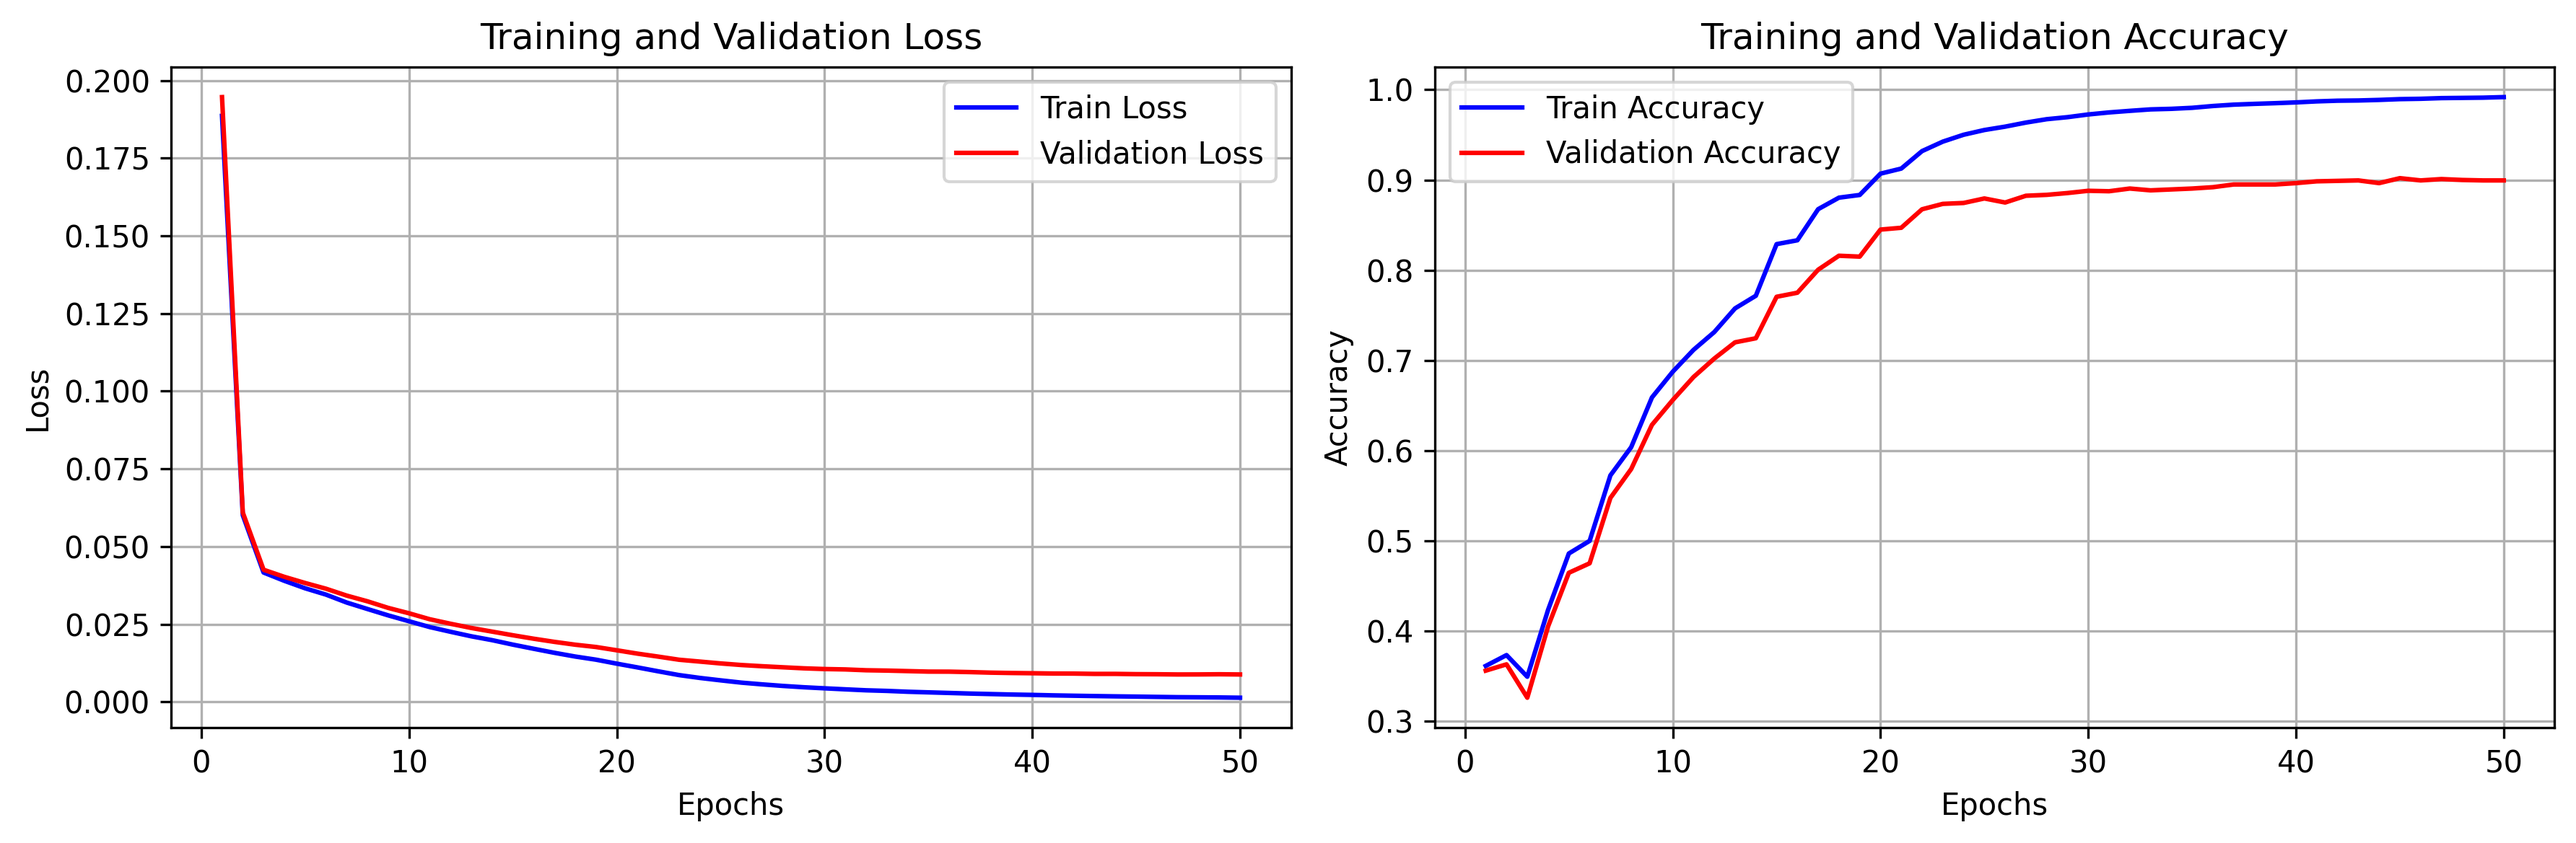
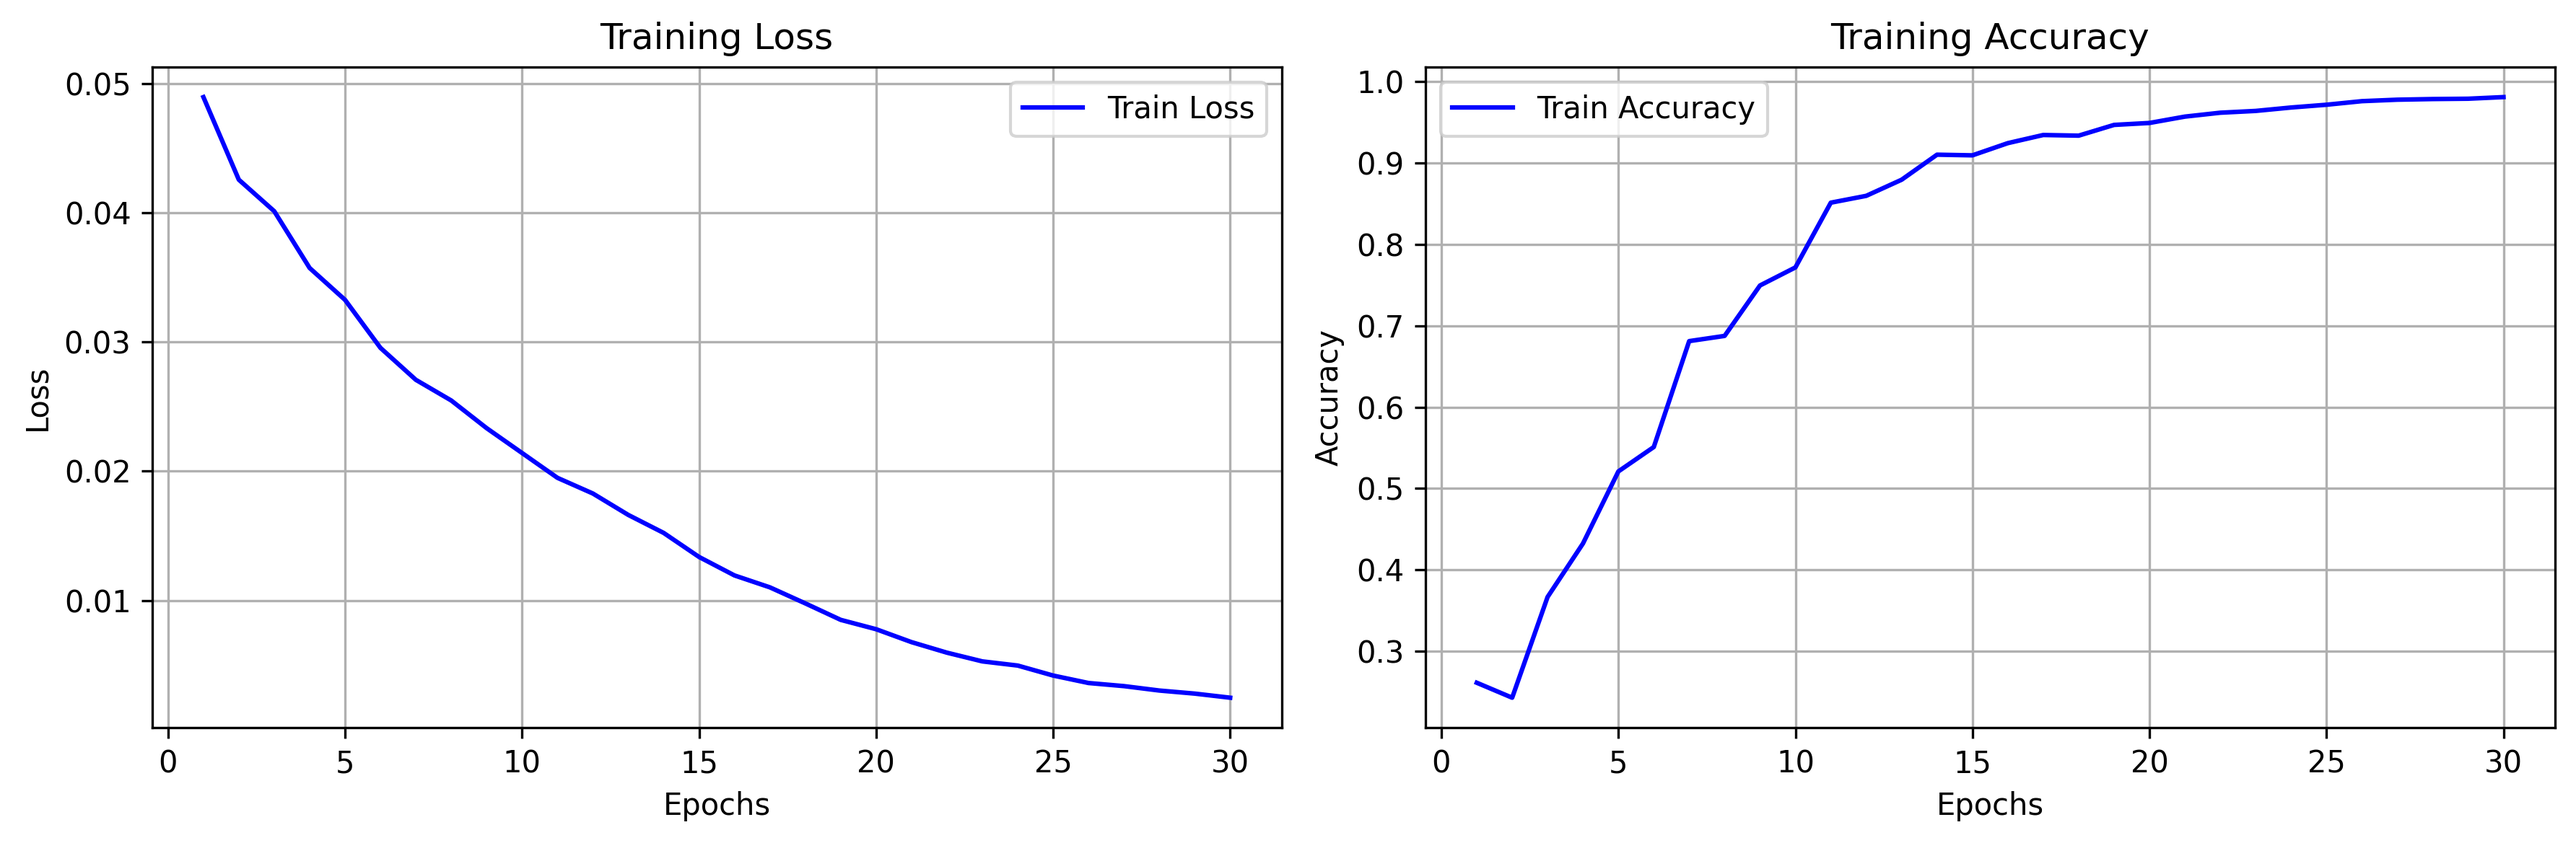
Removed unnecesary code

diff --git a/tp3_perceptrons/exercise_4/mnist_classifier.py b/tp3_perceptrons/exercise_4/mnist_classifier.py
@@ -6,7 +6,7 @@ import os
 sys.path.append(os.path.join(os.path.dirname(__file__), '..', 'src'))
 
 from multi_layer_perceptron import MultiLayerPerceptron
-from mnist_loader import load_mnist, preprocess_mnist, create_validation_set
+from mnist_loader import load_mnist, preprocess_mnist
 
 class MNISTClassifier:
     def __init__(self, layer_sizes=[784, 128, 64, 10], activation="tanh", 
@@ -33,9 +33,7 @@ class MNISTClassifier:
         self.model = None
         self.training_history = {
             'train_loss': [],
-            'val_loss': [],
-            'train_acc': [],
-            'val_acc': []
+            'train_acc': []
         }
     
     def create_model(self):
@@ -61,7 +59,7 @@ class MNISTClassifier:
             total += self.layer_sizes[i + 1]
         return total
     
-    def load_data(self, validation_split=0.2, sample_size=None):
+    def load_data(self, sample_size=None):
         """Carga y preprocesa los datos MNIST"""
         print("Cargando datos MNIST...")
         
@@ -80,16 +78,9 @@ class MNISTClassifier:
             train_images, train_labels, test_images, test_labels
         )
         
-        # Crear conjunto de validación
-        X_train, y_train, X_val, y_val = create_validation_set(
-            X_train, y_train, validation_split
-        )
-        
         self.data = {
             'X_train': X_train,
             'y_train': y_train,
-            'X_val': X_val,
-            'y_val': y_val,
             'X_test': X_test,
             'y_test': y_test,
             'train_labels_orig': train_labels_orig,
@@ -98,7 +89,6 @@ class MNISTClassifier:
         
         print(f"Datos preparados:")
         print(f"  Train: {X_train.shape}")
-        print(f"  Validation: {X_val.shape}")
         print(f"  Test: {X_test.shape}")
         
         return self.data
@@ -119,25 +109,18 @@ class MNISTClassifier:
                 epsilon=1e-10  # Muy pequeño para no parar prematuramente
             )
             
-            # Evaluar en train y validation
+            # Evaluar en train
             train_pred = self.model.predict(self.data['X_train'])
-            val_pred = self.model.predict(self.data['X_val'])
             
             train_loss = self._calculate_loss(self.data['y_train'], train_pred)
-            val_loss = self._calculate_loss(self.data['y_val'], val_pred)
-            
             train_acc = self._calculate_accuracy(self.data['y_train'], train_pred)
-            val_acc = self._calculate_accuracy(self.data['y_val'], val_pred)
             
             # Guardar historial
             self.training_history['train_loss'].append(train_loss)
-            self.training_history['val_loss'].append(val_loss)
             self.training_history['train_acc'].append(train_acc)
-            self.training_history['val_acc'].append(val_acc)
             
             if verbose and epoch % 5 == 0:
-                print(f"Época {epoch:3d}: Train Loss={train_loss:.4f}, Val Loss={val_loss:.4f}, "
-                      f"Train Acc={train_acc:.4f}, Val Acc={val_acc:.4f}")
+                print(f"Época {epoch:3d}: Train Loss={train_loss:.4f}, Train Acc={train_acc:.4f}")
         
         print("Entrenamiento completado")
     

diff --git a/tp3_perceptrons/exercise_4/visualization.py b/tp3_perceptrons/exercise_4/visualization.py
@@ -10,8 +10,7 @@ def plot_training_history(history, save_path=None):
     
     # Loss
     ax1.plot(epochs, history['train_loss'], 'b-', label='Train Loss')
-    ax1.plot(epochs, history['val_loss'], 'r-', label='Validation Loss')
-    ax1.set_title('Training and Validation Loss')
+    ax1.set_title('Training Loss')
     ax1.set_xlabel('Epochs')
     ax1.set_ylabel('Loss')
     ax1.legend()
@@ -19,8 +18,7 @@ def plot_training_history(history, save_path=None):
     
     # Accuracy
     ax2.plot(epochs, history['train_acc'], 'b-', label='Train Accuracy')
-    ax2.plot(epochs, history['val_acc'], 'r-', label='Validation Accuracy')
-    ax2.set_title('Training and Validation Accuracy')
+    ax2.set_title('Training Accuracy')
     ax2.set_xlabel('Epochs')
     ax2.set_ylabel('Accuracy')
     ax2.legend()
@@ -157,11 +155,9 @@ def plot_learning_curves_comparison(histories_dict, save_path=None):
         
         # Loss
         ax1.plot(epochs, history['train_loss'], label=f'{name} - Train', linestyle='-')
-        ax1.plot(epochs, history['val_loss'], label=f'{name} - Val', linestyle='--')
         
         # Accuracy
         ax2.plot(epochs, history['train_acc'], label=f'{name} - Train', linestyle='-')
-        ax2.plot(epochs, history['val_acc'], label=f'{name} - Val', linestyle='--')
     
     ax1.set_title('Comparación de Loss')
     ax1.set_xlabel('Epochs')

diff --git a/tp3_perceptrons/exercise_4/mnist_loader.py b/tp3_perceptrons/exercise_4/mnist_loader.py
@@ -59,24 +59,3 @@ def preprocess_mnist(train_images, train_labels, test_images, test_labels, norma
     
     return train_images, train_labels, test_images, test_labels
 
-def create_validation_set(X_train, y_train, validation_split=0.2):
-    """Crea conjunto de validación del conjunto de entrenamiento"""
-    n_samples = X_train.shape[0]
-    n_val = int(n_samples * validation_split)
-    
-    # Shuffle indices
-    indices = np.random.permutation(n_samples)
-    
-    # Split
-    val_indices = indices[:n_val]
-    train_indices = indices[n_val:]
-    
-    X_val = X_train[val_indices]
-    y_val = y_train[val_indices]
-    X_train_new = X_train[train_indices]
-    y_train_new = y_train[train_indices]
-    
-    print(f"Conjunto de validación creado: {X_val.shape[0]} muestras")
-    print(f"Conjunto de entrenamiento: {X_train_new.shape[0]} muestras")
-    
-    return X_train_new, y_train_new, X_val, y_val

diff --git a/tp3_perceptrons/exercise_4/main.py b/tp3_perceptrons/exercise_4/main.py
@@ -52,7 +52,6 @@ def run_experiment_from_config(config):
     # Cargar datos
     print("\nCargando datos MNIST...")
     classifier.load_data(
-        validation_split=exp_config['validation_split'],
         sample_size=exp_config['sample_size']
     )
     
